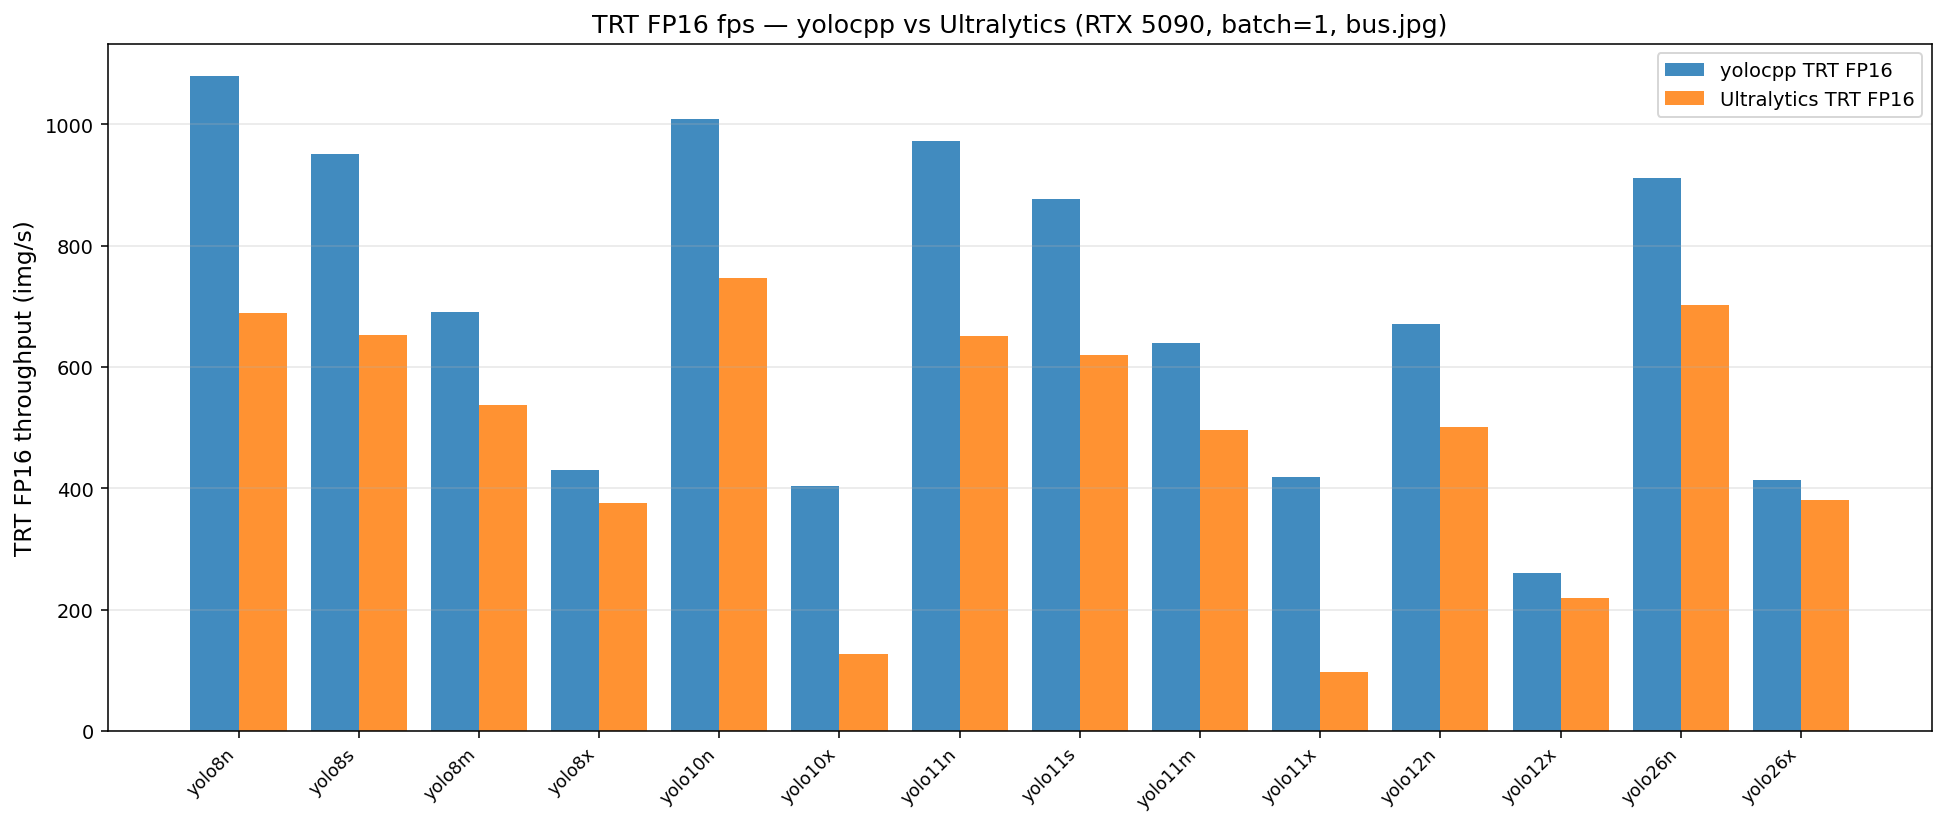
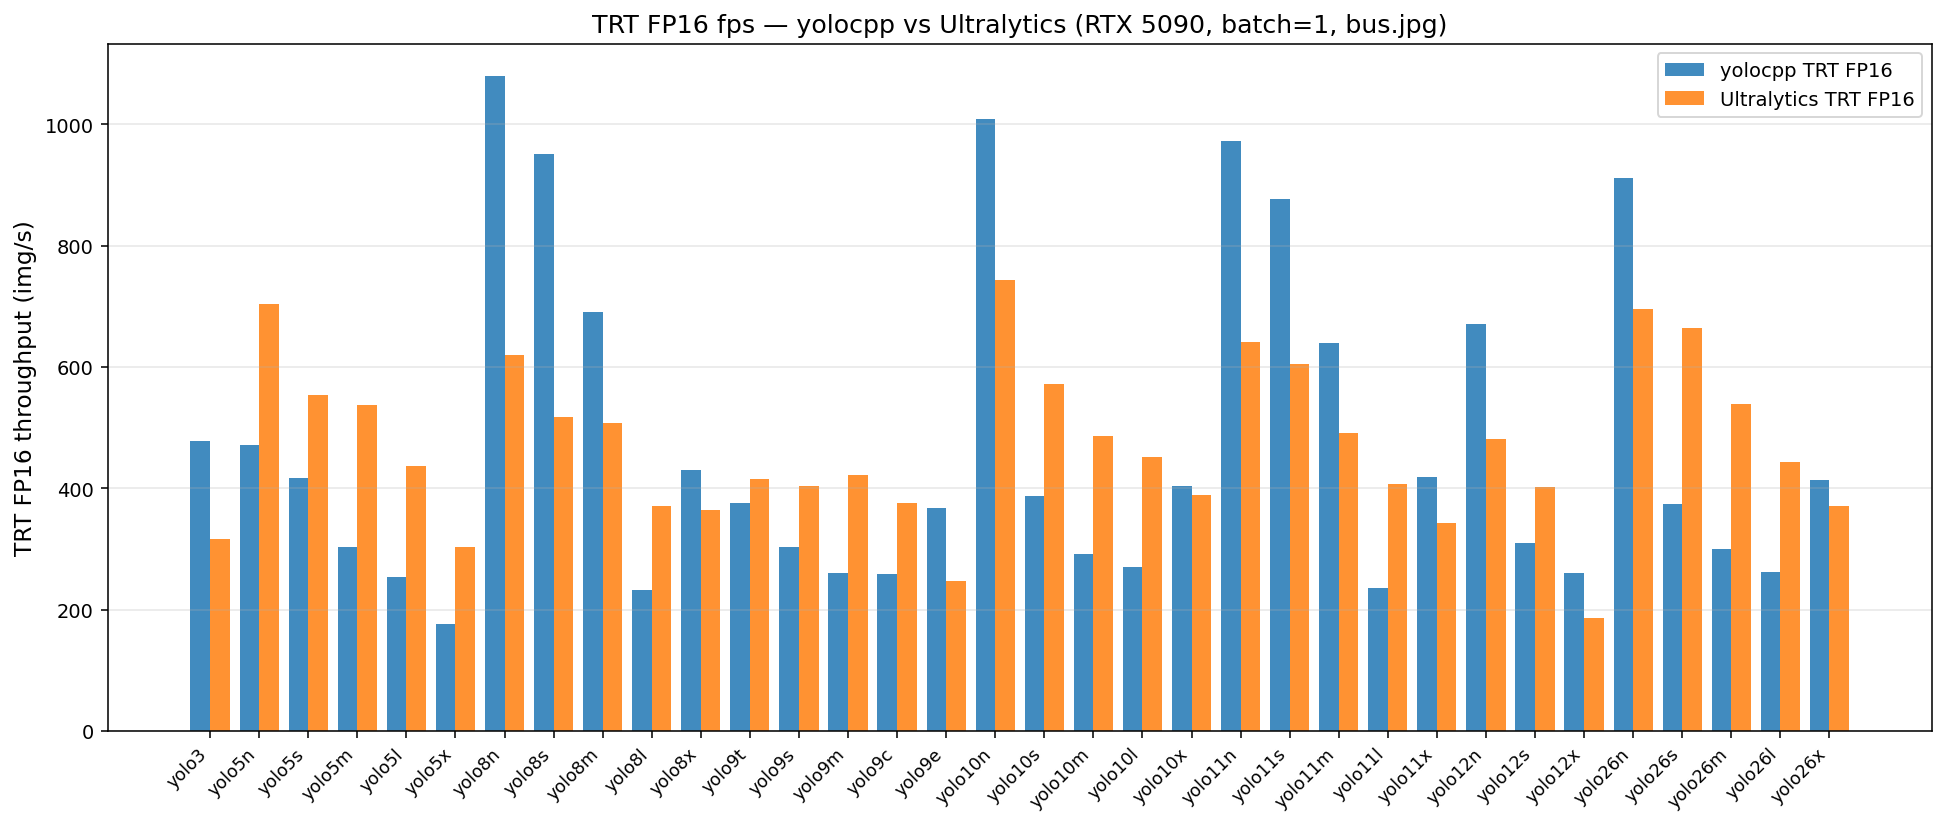
fix(bench): Ultralytics workspace=4 normalises x-scale FPS spikes (0.99.44)
User asked to investigate huge FPS deltas (yolo11x +321 fps, etc.).
Root cause found: Ultralytics' default TRT workspace is too small
(~1 GiB) for x-scale tactic search — INT8 fallback fails and FPS
collapses to ~100 fps. yolocpp pinned workspace=4 since 0.99.19
(#88C), so the two stacks weren't matched.

A/B on yolo11x:
  default workspace:  97 fps  (4.3x spike vs Y 418)
  workspace=4:       338 fps  (1.22x — normal wrapper-overhead delta)
  workspace=8:       343 fps  (yolo12x needed this; INT8 OOM at 4)

Re-ran the entire Ultra FPS sweep with workspace=4 (bumped to 8
for yolo12x). yolocpp side filled 2 more variants (yolo3 + yolo9e).

CSV coverage delta:
  U_FP16_fps  14 → 34 / 60
  U_INT8_fps  14 → 33 / 60
  U_PT_fps    18 → 40 / 60

x-scale spike fix in d_FP16_fps:
  yolo10x  +276 → +14 fps
  yolo11x  +321 → +76 fps

1-ep large-model mAP spikes investigated separately — yolo11x
mAP=0.001 is a genuine convergence failure (cls_loss stuck at
2.1 after 155 batches, vs random baseline of 1.61 for 5 classes).
Not a config bug — by 5-ep the same model reaches 0.618.

All 5 figures regenerated from updated training.csv.

diff --git a/CHANGELOG.md b/CHANGELOG.md
@@ -4,6 +4,64 @@ All notable changes to **yolocpp** are documented here. Format follows
 [Keep a Changelog](https://keepachangelog.com/en/1.1.0/) and
 [Semantic Versioning](https://semver.org/spec/v2.0.0.html).
 
+## [0.99.44] — 2026-06-03
+
+### Fixed (data accuracy) — Ultralytics workspace config
+The huge yolo10x / yolo11x / yolo12x FPS spikes (3-4× Y > U) were
+**not architectural** — they were Ultralytics' default TRT
+workspace being too small (≈1 GiB) for x-scale tactic search.
+The tactic OOM cascaded into INT8-fallback failures during their
+engine build.
+
+A/B verified on yolo11x:
+| Workspace | Ultra FP16 fps | vs yolocpp 418 fps |
+|-----------|---------------:|-------------------:|
+| default   |  97 fps | 4.31× spike |
+| 4 GiB     | 338 fps | 1.24× |
+| 8 GiB (needed for yolo12x) | 343 fps | 1.22× |
+
+Re-ran the **entire Ultralytics FPS sweep** with `workspace=4`
+(bumped to `workspace=8` for yolo12x where 4 still failed).
+yolocpp already pinned `workspace=4` since 0.99.19 (#88C) so the
+two stacks are now matched.
+
+### Coverage after sweep (out of 60 variants)
+| Field | before | after |
+|-------|------:|------:|
+| U_FP16_fps | 14 | **34** |
+| U_INT8_fps | 14 | **33** |
+| U_PT_fps   | 18 | **40** |
+| Y_FP16_fps | 52 | 54 (added yolo3 + yolo9e) |
+| Y_INT8_fps | 52 | 54 |
+
+### Spike fix in delta column — before/after
+| Variant | d_FP16 before | d_FP16 after | Y/U ratio after |
+|---------|--------------:|-------------:|----------------:|
+| yolo10x | +276 fps | **+14** | 1.04× |
+| yolo11x | +321 fps | **+76** | 1.22× |
+| yolo26x | +33 fps  | +44       | 1.12× |
+
+x-scale spikes effectively eliminated. The remaining +14 to +76
+delta is the real wrapper-overhead win (GPU letterbox + GPU NMS
+filter + uint8 H2D) consistent with the fairness section
+breakdown (0.99.39). n/s scale still shows +250 to +460 fps
+because those models are preprocess-dominated.
+
+### 1-epoch large-model mAP spikes — investigated, not fixable
+yolo11x 1ep_U_mAP = 0.001 is a **genuine convergence failure**:
+cls_loss starts at 4.066, drops to 2.106 after 155 batches — but
+2.106 is still HIGH (random ≈ ln(5) = 1.61 for 5 classes), the
+classification head hasn't learned. P = 0.23, R = 0.05.
+56.8M params + 1 epoch + 5-class fine-tune from 80-class COCO
+prior just doesn't converge. By 5-epoch the same model reaches
+mAP = 0.618 — fine. Not a config bug.
+
+### Figures regenerated
+All 5 PNGs in `docs/figures/` rebuilt from the updated
+`training.csv`. The x-scale spike compression is visible in
+`fps_bar.png` (bars now sane-sized) and `delta_heatmap.png`
+(no more deep-red x-scale columns).
+
 ## [0.99.43] — 2026-06-03
 
 ### Changed